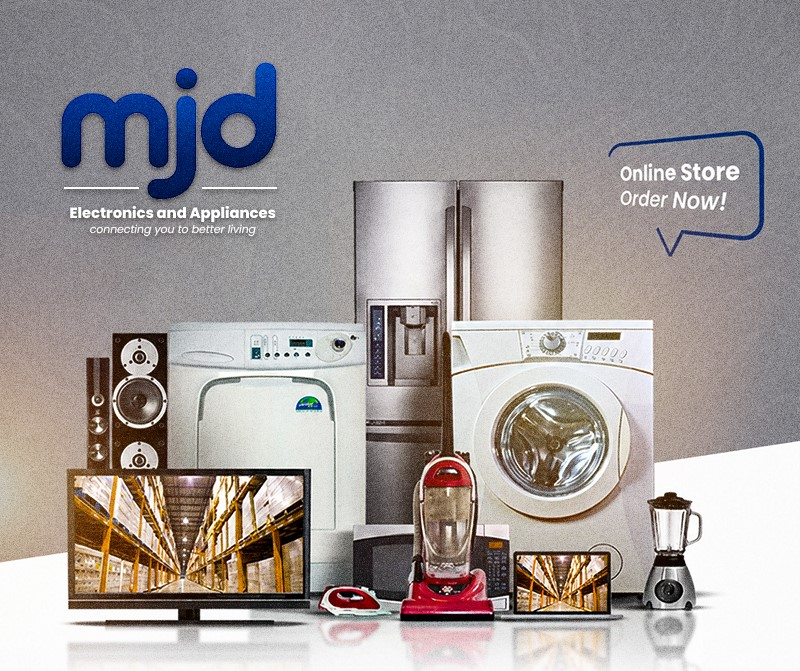
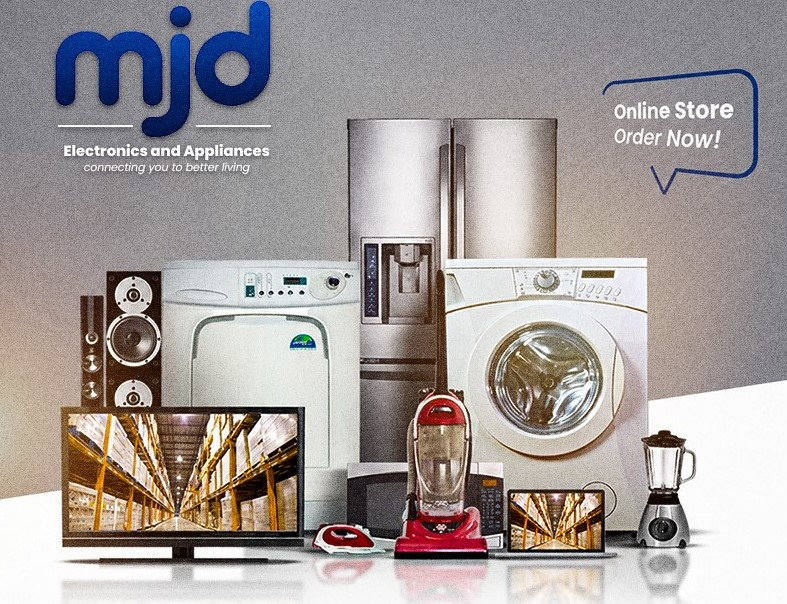
finished up the hero and  starting the category secton

diff --git a/styles/mjd.css b/styles/mjd.css
@@ -4,7 +4,7 @@ p {
 body {
   height: 2000px;
   margin-top: 83px;
-  background-color: #f7f7f4;
+  background-color: rgb(223, 221, 221);
 }
 .header {
   display: flex;
@@ -15,6 +15,7 @@ body {
   right: 0;
   top: 0;
   height: 40px;
+  z-index: 2;
 }
 .mjd-text {
   font-size: clamp(25px, 2vw, 2vw);
@@ -71,13 +72,6 @@ body {
   color: grey;
   font-size: 14px;
 }
-.phone-num {
-  font-weight: bold;
-  font-family: arial;
-  font-size: 18px;
-  color: rgb(53, 48, 48);
-  text-wrap: nowrap;
-}
 .second-header {
   margin-bottom: 20px;
   position: fixed;
@@ -88,6 +82,7 @@ body {
   height: 38px;
   display: flex;
   justify-content: space-between;
+  z-index: 3;
 }
 .header-buttons {
   margin-left: 30px;
@@ -102,6 +97,7 @@ body {
   font-weight: bold;
   margin-right: 20px;
   font-size: 20px;
+  cursor: pointer;
 }
 .category-button-contain {
   display: flex;
@@ -120,6 +116,7 @@ body {
   padding-right: 40px;
   font-weight: 500;
   transition: 0.4s;
+  cursor: pointer;
 }
 .head-buttons:hover {
   color: yellow;
@@ -132,6 +129,7 @@ body {
   font-weight: bold;
   font-size: 17px;
   font-family: roboto;
+  cursor: pointer;
 }
 .naira-sign,
 .cart-sign {
@@ -148,6 +146,7 @@ body {
   padding-right: 17px;
   padding-left: 11px;
   border-radius: 6px;
+  cursor: pointer;
 }
 .login-logo {
   padding-right: 7px;
@@ -169,11 +168,92 @@ body {
 }
 .hero-contain {
   display: flex;
-  justify-content: space-between;
+  justify-content: center;
+  align-items: center;
 }
-.first-hero-flyer-contain {
-  max-width: 40%;
-}
+
 .first-hero-flyer {
   width: 100%;
+}
+.first-hero-flyer-contain {
+  position: relative;
+}
+.hero-text-contain {
+  background-color: transparent;
+  display: flex;
+  flex-direction: column;
+  justify-content: center;
+
+  position: absolute;
+  top: 100px;
+  left: 30px;
+}
+.first-hero-text,
+.second-hero-text {
+  font-family: roboto;
+  font-weight: bold;
+  font-size: 30px;
+  color: white;
+}
+.second-hero-text {
+  color: rgb(14, 14, 77);
+}
+.third-hero-text {
+  color: white;
+  font-size: 17px;
+  font-family: roboto;
+}
+.line-hero {
+  height: 1px;
+  width: 550px;
+  border: none;
+  background-color: rgb(23, 19, 247);
+  margin-left: 0;
+  margin-right: 0;
+}
+.hero-buttons-contain {
+  margin-top: 40px;
+  display: flex;
+  gap: 15px;
+}
+.hero-buttons-contain button {
+  background-color: rgb(209, 209, 19);
+  color: black;
+  padding: 10px;
+  font-weight: bold;
+  border: none;
+  cursor: pointer;
+  font-size: 20px;
+  border-radius: 10px;
+  box-shadow: 4px 5px rgba(80, 80, 7, 0.288);
+}
+.hero-buttons-contain button:hover {
+  background-color: rgb(97, 97, 11);
+}
+.line-after-hero {
+  height: 1px;
+  max-width: 1200px;
+  margin-top: 5px;
+  background-color: rgba(14, 12, 12, 0.356);
+}
+.categories-section {
+  display: flex;
+  flex-direction: column;
+  justify-content: center;
+  align-items: center;
+  font-weight: bold;
+  font-size: 20px;
+  gap: 10px;
+}
+.category-images-containers {
+  width: 300px;
+}
+.category-images {
+  width: 100%;
+}
+.category-images-main {
+  display: grid;
+  grid-template-columns: repeat(4, 1fr);
+  gap: 50px;
+  flex-wrap: wrap;
 }

diff --git a/mjd.html b/mjd.html
@@ -58,11 +58,36 @@
     </div>
     
     <div class="hero-contain">
-      <div>
-        <p>Quality Electronics</p>
-      </div>
       <div class="first-hero-flyer-contain">
-        <img class="first-hero-flyer" src="images/IMG_3103.JPG.jpeg">
+        <img class="first-hero-flyer" src="images/IMG_3113.PNG">
+        <div class="hero-text-contain">
+          <p class="first-hero-text">QUALITY ELECTRONICS FOR<br> YOUR EVERYDAY LIFE.</p>
+          <p class="second-hero-text">Upgrade your home with  <br>appliances designed for everyday living.</p>
+          <hr class="line-hero">
+          <p class="third-hero-text">We provide high-quality electronics and home appliances,<br> delivering trusted products nationwide.</p>
+          <div class="hero-buttons-contain">
+            <button>
+              SHOP NOW
+            </button> 
+            <button>
+              EXPLORE CATEGORIES
+            </button>
+          </div>
+      </div>
+      </div>
+    </div>
+    <hr class="line-after-hero">
+
+    <div class="categories-section">
+      <p>BROWSE BY CATEGORIES</p>
+      <div class="category-images-main">
+        <div class="category-images-containers"><img class="category-images" src="images/hotel-kitchen-equipment-1000x1000.png"></div>
+        <div class="category-images-containers"><img class="category-images" src="images/Klipsch-Reference-Dolby-Atmos-Surround-home-theater-system.webp"></div>
+        <div class="category-images-containers"><img class="category-images" src="images/OIP (1).webp"></div>
+        <div class="category-images-containers"><img class="category-images" src="images/sony-xbr-65x950b-flagship-4k-ultra-hd-tv_4_3jpg-scaled.jpg"></div>
+        <br>
+        <div class="category-images-containers"><img class="category-images" src="images/sony-xbr-65x950b-flagship-4k-ultra-hd-tv_4_3jpg-scaled.jpg"></div>
+        <div class="category-images-containers"><img class="category-images" src="images/thum-1600x1062.avif"></div>
       </div>
     </div>
     <script src="mjd.js"></script>
